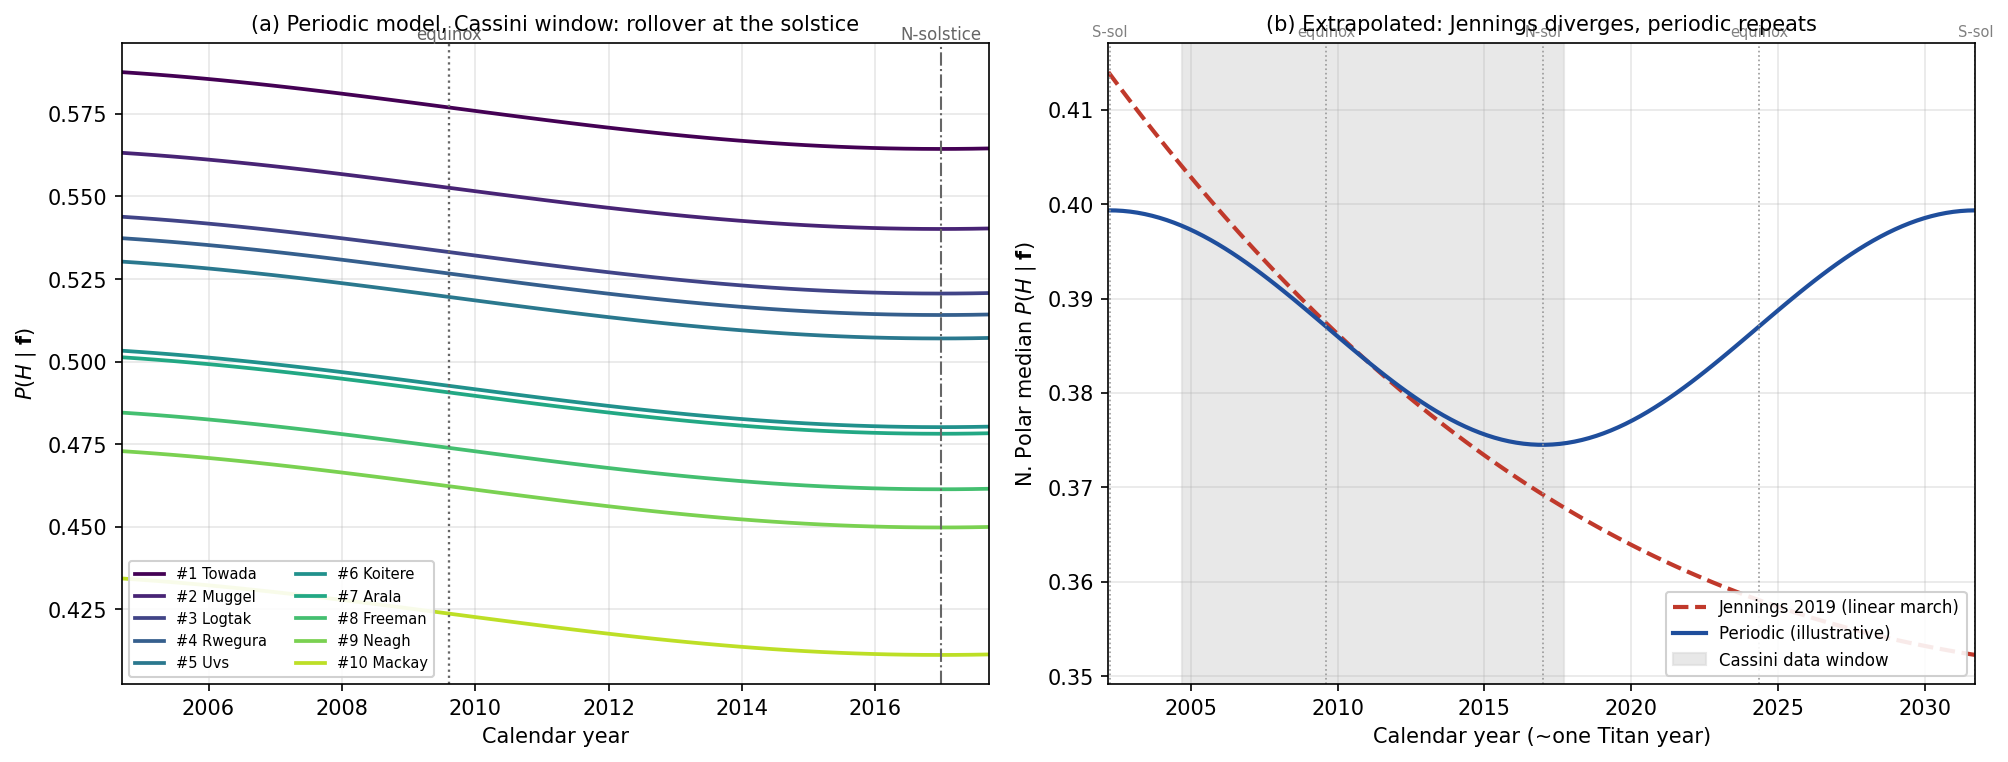
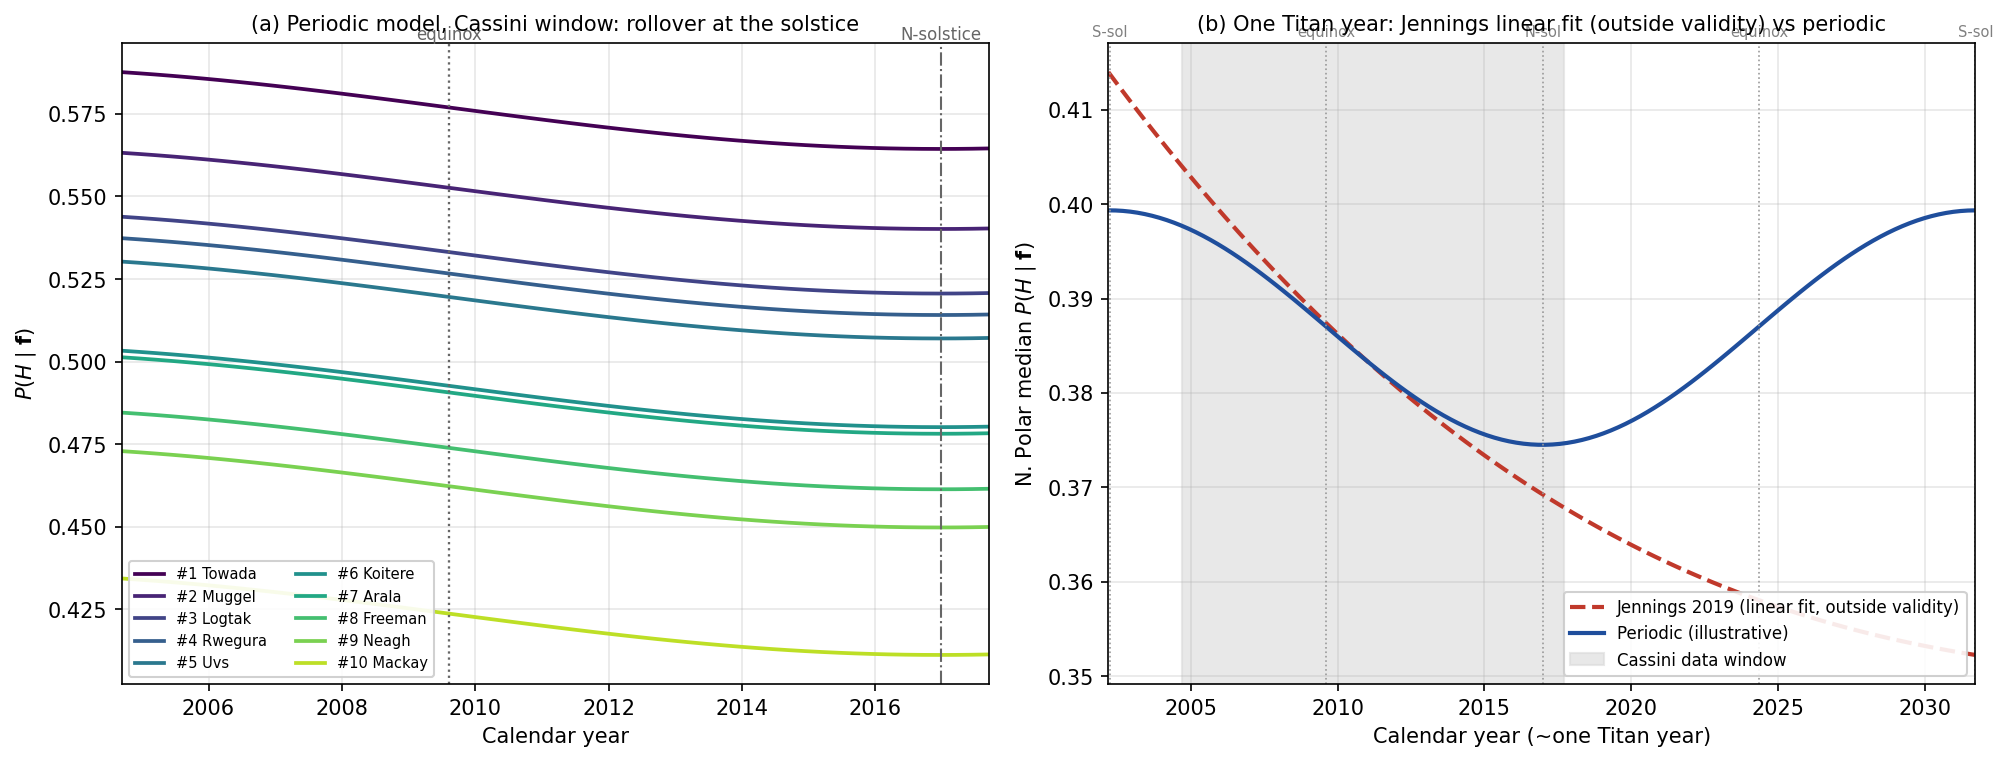
Retitle periodic-comparison panel (b) for accuracy
Verified against Jennings et al. (2019): the model is a cosine in LATITUDE with
parameters fit linearly in year (a+bY), valid only over Y in [-4.9,+8.1]. So
"diverges" was imprecise -- it is a linear fit used outside its stated validity.

- Panel (b) title: "Jennings diverges, periodic repeats" ->
  "Jennings linear fit (outside validity) vs periodic".
- Legend: "linear march" -> "linear fit, outside validity".
- Docstring updated to the accurate framing (cosine in latitude; linear-in-year
  parameters; implied 3.2 deg/yr march exceeds the 26.7 deg obliquity).

Changed region(s): [[0.6175, 0.0, 0.9263, 0.0604], [0.7719, 0.7848, 0.988, 0.8753]]

diff --git a/scripts/generate_seasonal_periodic.py b/scripts/generate_seasonal_periodic.py
@@ -3,10 +3,12 @@
 generate_seasonal_periodic.py  --  periodic-vs-Jennings comparison figure.
 
 Companion to generate_seasonal_trend.py (which uses the Jennings 2019 fit).
-The Jennings model parameterises the subsolar march as LINEAR in time
-(L_peak = -0.85 + 3.2*Y), so it is a 13-year local fit: extrapolated it diverges
-(L_peak -> 90 deg+) rather than repeating, and it cannot show the solstice
-turnover.  This script adds an ILLUSTRATIVE PERIODIC model that replaces only the
+The Jennings model fits a cosine in LATITUDE with parameters varying LINEARLY in
+year (a+bY); the subsolar march is L_peak = -0.85 + 3.2*Y.  The authors state it
+is valid only over Y in [-4.9, +8.1].  That implied march (3.2 deg/yr ~ 94 deg
+per Titan year) exceeds the physical 26.7 deg obliquity, so the linear fit
+captures the observed half-window trend but must not be extrapolated and cannot
+show the solstice turnover.  This script adds an ILLUSTRATIVE PERIODIC model that replaces only the
 subsolar march with the true astronomical subsolar latitude:
 
     L_sub(t) = 26.7 deg * sin(2*pi*(year - 2009.61) / 29.46)     (obliquity, period)
@@ -77,7 +79,7 @@ axA.legend(fontsize=7, ncol=2, loc="lower left", framealpha=0.9); axA.grid(alpha
 # (b) one Titan year: Jennings vs periodic for the N.Polar band -> divergence vs periodicity
 yrs_e = np.linspace(2002.2, 2031.7, 120)
 axB.plot(yrs_e, ph_curve(T_jennings, 75, npolar_med, yrs_e), color="#c0392b", ls="--", lw=2,
-         label="Jennings 2019 (linear march)")
+         label="Jennings 2019 (linear fit, outside validity)")
 axB.plot(yrs_e, ph_curve(T_periodic, 75, npolar_med, yrs_e), color="#1f4e9c", lw=2,
          label="Periodic (illustrative)")
 axB.axvspan(2004.7, 2017.7, color="0.85", alpha=0.6, label="Cassini data window")
@@ -87,7 +89,7 @@ for yr, lab in [(2002.24, "S-sol"), (2009.61, "equinox"), (2016.98, "N-sol"),
     axB.text(yr, 1.01, lab, color="0.5", fontsize=7, ha="center", transform=axB.get_xaxis_transform())
 axB.set_xlim(2002.2, 2031.7); axB.set_xlabel("Calendar year (~one Titan year)")
 axB.set_ylabel(r"N. Polar median $P(H \mid \mathbf{f})$")
-axB.set_title("(b) Extrapolated: Jennings diverges, periodic repeats", fontsize=10)
+axB.set_title("(b) One Titan year: Jennings linear fit (outside validity) vs periodic", fontsize=10)
 axB.legend(fontsize=8, loc="lower right", framealpha=0.9); axB.grid(alpha=0.3)
 
 fig.tight_layout()
